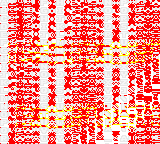
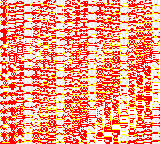
mix tile data in fetcher

diff --git a/gb/src/ppu/fetcher.rs b/gb/src/ppu/fetcher.rs
@@ -1,5 +1,7 @@
 use std::collections::VecDeque;
 
+use crate::traits::MemoryAccess;
+
 use super::{
     ppu::MapLayer,
     utils::{
@@ -9,7 +11,7 @@ use super::{
     vram::Vram,
 };
 
-enum FetchState {
+enum FetcherState {
     ReadTileNumber,
     ReadTileData0,
     ReadTileData1,
@@ -18,13 +20,22 @@ enum FetchState {
 
 pub struct Fetcher {
     pub mode: MapLayer,
-    x: u32,
-    y: u32,
+    x: u8,
+    y: u8,
     tile_number: usize,
     tile_offset: u32,
-    state: FetchState,
+    tile_data_lower: u8,
+    tile_data_upper: u8,
+    state: FetcherState,
     fifo: VecDeque<u8>,
     cycles: u8,
+}
+
+fn get_bit(byte: u8, index: usize) -> u8 {
+    if byte & (1 << index) > 0 {
+        return 1;
+    }
+    0
 }
 
 impl Fetcher {
@@ -34,21 +45,24 @@ impl Fetcher {
             x: 0,
             y: 0,
             tile_number: 0,
+            tile_data_upper: 0,
+            tile_data_lower: 0,
+
             tile_offset: 0,
-            state: FetchState::ReadTileNumber,
+            state: FetcherState::ReadTileNumber,
             fifo: VecDeque::new(),
             cycles: 0,
         }
     }
 
     pub fn start(&mut self, x: u8, y: u8, mode: MapLayer) {
-        self.x = x.into();
-        self.y = y.into();
+        self.x = x;
+        self.y = y;
         self.tile_number = 0;
         self.tile_offset = 0;
         self.cycles = 0;
         self.fifo.clear();
-        self.state = FetchState::ReadTileNumber;
+        self.state = FetcherState::ReadTileNumber;
         self.mode = mode;
     }
 
@@ -60,45 +74,60 @@ impl Fetcher {
         self.fifo.pop_front()
     }
 
-    pub fn tick(&mut self, vram: &Vram, lcdc: &LcdcBits) {
+    pub fn tick(&mut self, vram: &Vram, lcdc: &LcdcBits, bg_y: u8) {
         self.cycles += 1;
         if self.cycles < 2 {
             return;
         }
         self.cycles = 0;
 
+        // TODO refactor this ugly code
+        // workaround for SCY immediate change
+        let y = if self.mode == MapLayer::Window {
+            (self.y & 0xff) as u8
+        } else {
+            bg_y
+        };
+
         match self.state {
-            FetchState::ReadTileNumber => {
+            FetcherState::ReadTileNumber => {
                 let map_address = match self.mode {
                     MapLayer::Background => get_background_tile_map_address(lcdc),
                     MapLayer::Window => get_window_tile_map_address(lcdc),
                 } as usize;
 
-                let tile_row = ((self.y & 0xff) / 8) as usize; // floor not needed, rust handles that
-                let tile_col = (((self.x + self.tile_offset * 8) & 0xff) / 8) as usize;
+                let tile_row = (y / 8) as usize;
+                let tile_col = (((self.x as u32 + self.tile_offset * 8) & 0xff) / 8) as usize;
                 let tile_address = (map_address + (tile_row * 32 + tile_col)) as usize;
                 let n = vram.memory[tile_address] as usize;
                 self.tile_number = transform_tile_number(lcdc, n);
-                self.state = FetchState::ReadTileData0;
+                self.state = FetcherState::ReadTileData0;
             }
-            FetchState::ReadTileData0 => {
-                self.state = FetchState::ReadTileData1;
+            FetcherState::ReadTileData0 => {
+                let line = ((y % 8) * 2) as usize;
+                let tile_mask = self.tile_number << 4;
+                let address = tile_mask | line;
+                self.tile_data_lower = vram.read_byte(address as u16);
+                self.state = FetcherState::ReadTileData1;
             }
-            FetchState::ReadTileData1 => {
-                self.state = FetchState::PushToFIFO;
+            FetcherState::ReadTileData1 => {
+                let line = ((y % 8) * 2) as usize;
+                let tile_mask = self.tile_number << 4;
+                let address = tile_mask | (line + 1);
+                self.tile_data_upper = vram.read_byte(address as u16);
+                self.state = FetcherState::PushToFIFO;
             }
-            FetchState::PushToFIFO => {
-                // TODO check this if
+            FetcherState::PushToFIFO => {
                 if self.fifo.len() <= 8 {
-                    let tile = &vram.tiles[self.tile_number];
-                    let index = (self.y & 7) as usize;
-                    let line_pixels = &tile.data[index];
-
-                    for pixel in line_pixels.iter() {
-                        self.fifo.push_back(*pixel);
+                    for x in (0..=7).rev() {
+                        let high = get_bit(self.tile_data_upper, x);
+                        let low = get_bit(self.tile_data_lower, x);
+                        let pixel = (high << 1) | low;
+                        self.fifo.push_back(pixel);
                     }
+
                     self.tile_offset += 1;
-                    self.state = FetchState::ReadTileNumber;
+                    self.state = FetcherState::ReadTileNumber;
                 }
             }
         }

diff --git a/gb/src/ppu/ppu.rs b/gb/src/ppu/ppu.rs
@@ -1,4 +1,5 @@
 use constants::DISPLAY_WIDTH;
+use parse_display::Display;
 
 use crate::{
     constants::{self, TILE_SIZE},
@@ -31,7 +32,7 @@ enum Access {
     Write,
 }
 
-#[derive(PartialEq, Clone, Copy)]
+#[derive(PartialEq, Clone, Copy, Debug)]
 pub enum MapLayer {
     Background,
     Window,
@@ -92,8 +93,8 @@ impl Palettes {
     }
 }
 
-#[derive(Clone, Copy, PartialEq, Debug)]
-enum Mode {
+#[derive(Clone, Copy, PartialEq, Debug, Display)]
+pub enum Mode {
     HBlank,
     VBlank,
     OamSearch,
@@ -134,9 +135,9 @@ pub struct Ppu {
     x: u8,
     sampled_scx: u8,
     prev_stat_flag: bool,
-    line_clocks: u32,
-    mode: Mode,
-    line: u8,
+    pub line_clocks: u32,
+    pub mode: Mode,
+    pub line: u8,
     dropped_pixels: u8,
     pending_mode: Option<Mode>,
     skip_frames: u32,
@@ -410,7 +411,8 @@ impl Ppu {
     }
 
     fn process_pixel_transfer(&mut self) {
-        self.fetcher.tick(&self.vram, &self.lcdc);
+        self.fetcher
+            .tick(&self.vram, &self.lcdc, self.ly.wrapping_add(self.scy));
 
         if self.fetcher.len() <= 8 {
             return;
@@ -736,8 +738,7 @@ impl Ppu {
             MapLayer::Window => get_window_tile_map_address(&self.lcdc),
         } as usize;
 
-        let offset = index;
-        let n = self.vram.memory[base_address + offset] as usize;
+        let n = self.vram.memory[base_address + index] as usize;
         let tile_number = transform_tile_number(&self.lcdc, n);
 
         &self.vram.tiles[tile_number]

diff --git a/debugger/src/app.rs b/debugger/src/app.rs
@@ -10,7 +10,7 @@ use std::sync::mpsc::Receiver;
 use crate::{
     components::{
         cpu::Cpu, display::Display, frame_history::FrameHistory, joypad::handle_inputs, maps::Maps,
-        memory_viewer::MemoryViewer, roms::Roms, tiles::Tiles,
+        memory_viewer::MemoryViewer, ppu::Ppu, roms::Roms, tiles::Tiles,
     },
     utils::BinarySource,
 };
@@ -23,6 +23,7 @@ struct Components {
     display: Display,
     maps: Maps,
     cpu: Cpu,
+    ppu: Ppu,
 }
 
 type RomData = Vec<u8>;
@@ -53,6 +54,7 @@ impl Debugger {
                 memory_viewer: MemoryViewer::default(),
                 maps: Maps::new(),
                 cpu: Cpu::new(),
+                ppu: Ppu::new(),
             },
         }
     }
@@ -202,6 +204,9 @@ impl epi::App for Debugger {
 
         // ------------------ CPU ----------------------
         components.cpu.show(ctx, &mut true, &emulator);
+
+        // ------------------ PPU ----------------------
+        components.ppu.show(ctx, &mut true, &emulator);
 
         // Continuous mode
         ctx.request_repaint();

diff --git a/debugger/src/components/mod.rs b/debugger/src/components/mod.rs
@@ -4,6 +4,7 @@ pub mod frame_history;
 pub mod joypad;
 pub mod maps;
 pub mod memory_viewer;
+pub mod ppu;
 pub mod roms;
 mod scale;
 pub mod tiles;

diff --git a/docs/results/results.md b/docs/results/results.md
@@ -181,7 +181,7 @@ https://github.com/mattcurrie/mealybug-tearoom-tests
 | m3_obp0_change                    | ![](m3_obp0_change/expected.png)                    | ![](m3_obp0_change/result.png)                    | ![](m3_obp0_change/diff.png)                    | ❌ Diff: 414   |
 | m3_scx_high_5_bits                | ![](m3_scx_high_5_bits/expected.png)                | ![](m3_scx_high_5_bits/result.png)                | ![](m3_scx_high_5_bits/diff.png)                | ❌ Diff: 6426  |
 | m3_scx_low_3_bits                 | ![](m3_scx_low_3_bits/expected.png)                 | ![](m3_scx_low_3_bits/result.png)                 | ![](m3_scx_low_3_bits/diff.png)                 | ❌ Diff: 540   |
-| m3_scy_change                     | ![](m3_scy_change/expected.png)                     | ![](m3_scy_change/result.png)                     | ![](m3_scy_change/diff.png)                     | ❌ Diff: 9001  |
+| m3_scy_change                     | ![](m3_scy_change/expected.png)                     | ![](m3_scy_change/result.png)                     | ![](m3_scy_change/diff.png)                     | ❌ Diff: 8750  |
 | m3_window_timing                  | ![](m3_window_timing/expected.png)                  | ![](m3_window_timing/result.png)                  | ![](m3_window_timing/diff.png)                  | ❌ Diff: 665   |
 | m3_window_timing_wx_0             | ![](m3_window_timing_wx_0/expected.png)             | ![](m3_window_timing_wx_0/result.png)             | ![](m3_window_timing_wx_0/diff.png)             | ❌ Diff: 954   |
 | m3_wx_4_change                    | ![](m3_wx_4_change/expected.png)                    | ![](m3_wx_4_change/result.png)                    | ![](m3_wx_4_change/diff.png)                    | ❌ Diff: 229   |
@@ -189,4 +189,4 @@ https://github.com/mattcurrie/mealybug-tearoom-tests
 | m3_wx_5_change                    | ![](m3_wx_5_change/expected.png)                    | ![](m3_wx_5_change/result.png)                    | ![](m3_wx_5_change/diff.png)                    | ❌ Diff: 638   |
 | m3_wx_6_change                    | ![](m3_wx_6_change/expected.png)                    | ![](m3_wx_6_change/result.png)                    | ![](m3_wx_6_change/diff.png)                    | ❌ Diff: 13799 |
 
-Generated at: 2021-03-24 07:42:54.369045 UTC
+Generated at: 2021-03-24 16:42:16.566993 UTC
